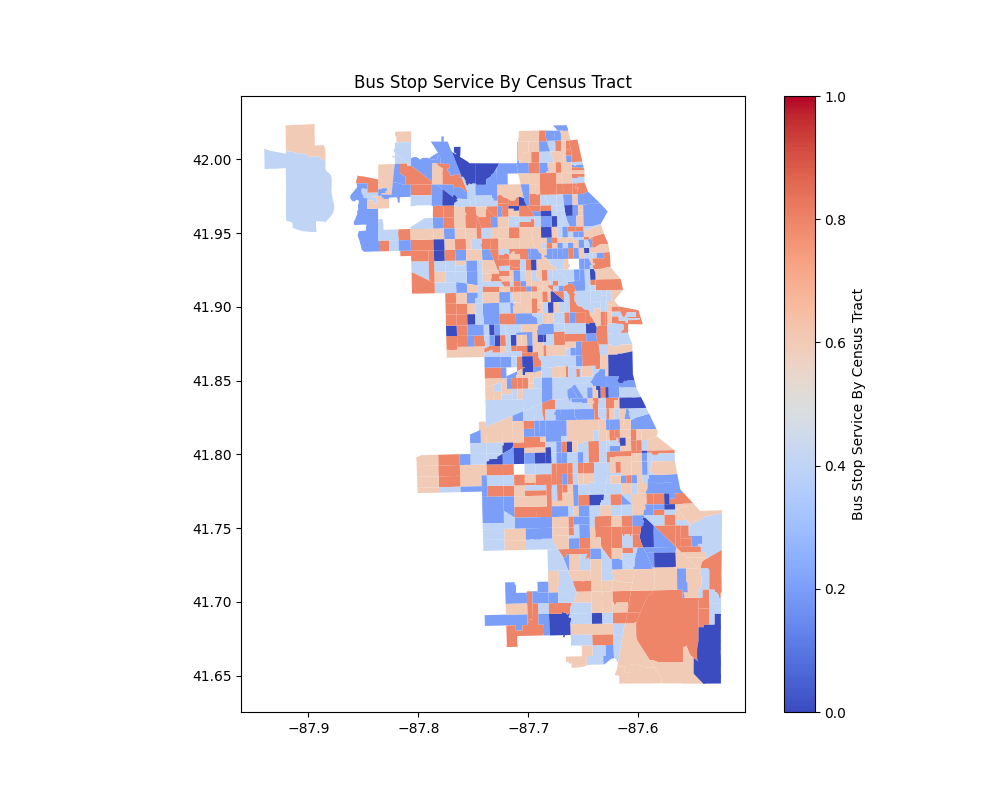
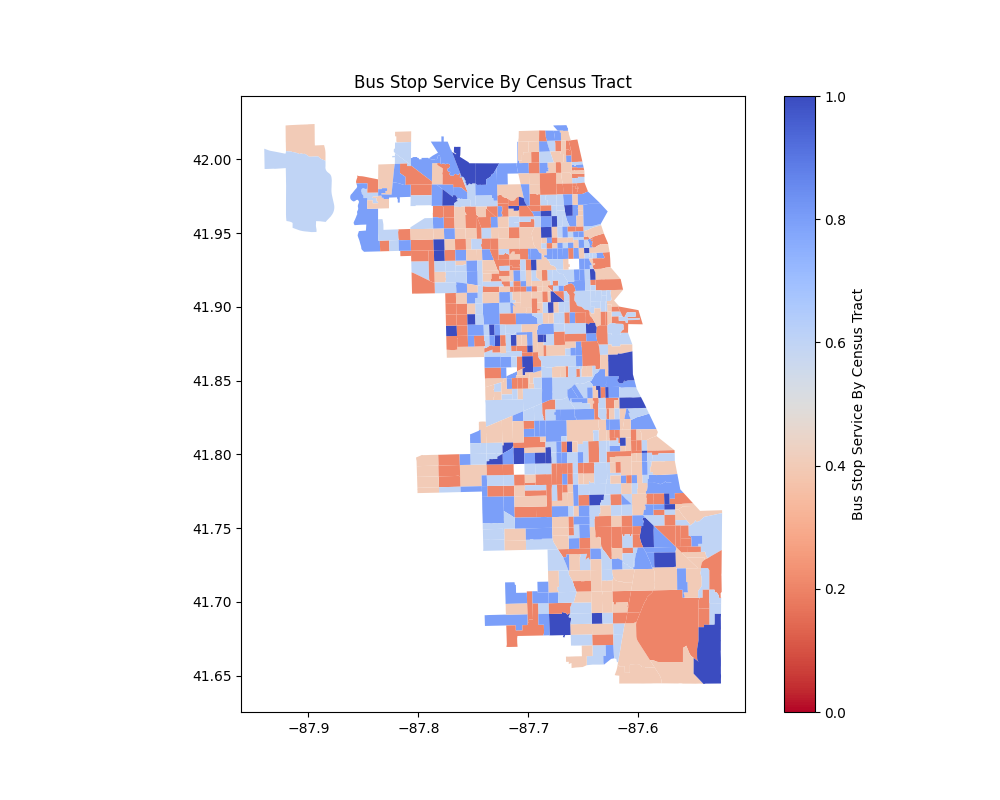
legend fix

Changed region(s): [[0.775, 0.5312, 0.837, 0.9062], [0.775, 0.125, 0.837, 0.5]]

diff --git a/transit_clustering/src/service_to_stops.py b/transit_clustering/src/service_to_stops.py
@@ -141,7 +141,7 @@ def plot_nuanced_service_densities(census_df, bus_df):
         classification_kwds={"bins": breaks15},
     )
     # Add a colorbar
-    cbar = plt.colorbar(plt.cm.ScalarMappable(cmap="coolwarm"), ax=ax)
+    cbar = plt.colorbar(plt.cm.ScalarMappable(cmap="coolwarm_r"), ax=ax)
     cbar.set_label("Bus Stop Service By Census Tract")
     plt.title("Bus Stop Service By Census Tract")
     plt.savefig("./figures/true_scheduled_bus_density_fromhinges.png")
